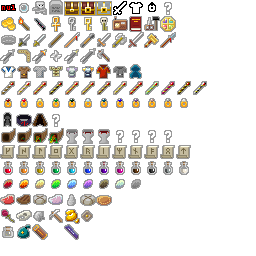
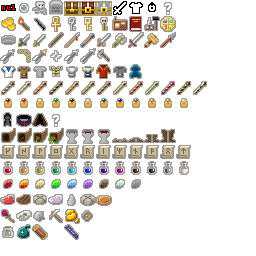
V0.2.0: implemented Sandals of nature sprite, Sandals final form now named greaves (was leggings)

Changed region(s): [[0.4375, 0.5, 0.6875, 0.5625]]

diff --git a/src/com/shatteredpixel/shatteredpixeldungeon/items/artifacts/SandalsOfNature.java b/src/com/shatteredpixel/shatteredpixeldungeon/items/artifacts/SandalsOfNature.java
@@ -26,7 +26,7 @@ import java.util.Collections;
  * Created by debenhame on 08/09/2014.
  */
 public class SandalsOfNature extends Artifact {
-    //todo: test, add sprite switching, number tweaking.
+    //todo: polish, tweak the greaves sprite a little, it's too neat/needs to be more messy.
 
     {
         name = "Sandals of Nature";
@@ -38,7 +38,7 @@ public class SandalsOfNature extends Artifact {
     }
 
     public static final String[] NAMES = {"Sandals of Nature", "Shoes of Nature",
-                                        "Boots of Nature", "Leggings of Nature"};
+                                        "Boots of Nature", "Greaves of Nature"};
 
     public static final String AC_FEED = "FEED";
     public static final String AC_ROOT = "ROOT";
@@ -95,16 +95,19 @@ public class SandalsOfNature extends Artifact {
 
 
     private static final String SEEDS = "seeds";
+    private static final String NAME = "name";
 
     @Override
     public void storeInBundle( Bundle bundle ) {
         super.storeInBundle(bundle);
+        bundle.put(NAME, name);
         bundle.put(SEEDS, seeds.toArray(new String[seeds.size()]));
     }
 
     @Override
     public void restoreFromBundle( Bundle bundle ) {
         super.restoreFromBundle(bundle);
+        name = bundle.getString( NAME );
         if (bundle.contains(SEEDS))
             Collections.addAll(seeds , bundle.getStringArray(SEEDS));
     }
@@ -131,7 +134,7 @@ public class SandalsOfNature extends Artifact {
                     hero.sprite.operate( hero.pos );
                     hero.busy();
                     hero.spend( 2f );
-                    if (seeds.size() >= 5+level){
+                    if (seeds.size() >= 2){
                         seeds.clear();
                         upgrade();
                         if (level >= 1 && level <= 3) {
@@ -145,7 +148,7 @@ public class SandalsOfNature extends Artifact {
                         else if (level == 2)
                             image = ItemSpriteSheet.ARTIFACT_BOOTS;
                         else if (level >= 3)
-                            image = ItemSpriteSheet.ARTIFACT_LEGGINGS;
+                            image = ItemSpriteSheet.ARTIFACT_GREAVES;
                     } else {
                         GLog.i("Your " + name + " absorb the seed, they seem healthier.");
                     }

diff --git a/src/com/shatteredpixel/shatteredpixeldungeon/sprites/ItemSpriteSheet.java b/src/com/shatteredpixel/shatteredpixeldungeon/sprites/ItemSpriteSheet.java
@@ -134,7 +134,7 @@ public class ItemSpriteSheet {
     public static final int ARTIFACT_CLOAK      = ROW8+0;
     public static final int ARTIFACT_ARMBAND    = ROW8+1;
     public static final int ARTIFACT_CAPE       = ROW8+2;
-    public static final int ARTIFACT_TALISMAN   = 0;
+    public static final int ARTIFACT_TALISMAN   = ROW8+3;
 
 
     //Row Nine: Artifacts with Dynamic Images
@@ -148,7 +148,7 @@ public class ItemSpriteSheet {
     public static final int ARTIFACT_SANDALS    = ROW9+7;
     public static final int ARTIFACT_SHOES      = ROW9+8;
     public static final int ARTIFACT_BOOTS      = ROW9+9;
-    public static final int ARTIFACT_LEGGINGS   = ROW9+10;
+    public static final int ARTIFACT_GREAVES    = ROW9+10;
 
     //Row Ten: Scrolls
     public static final int SCROLL_KAUNAN	= ROW10+0;
